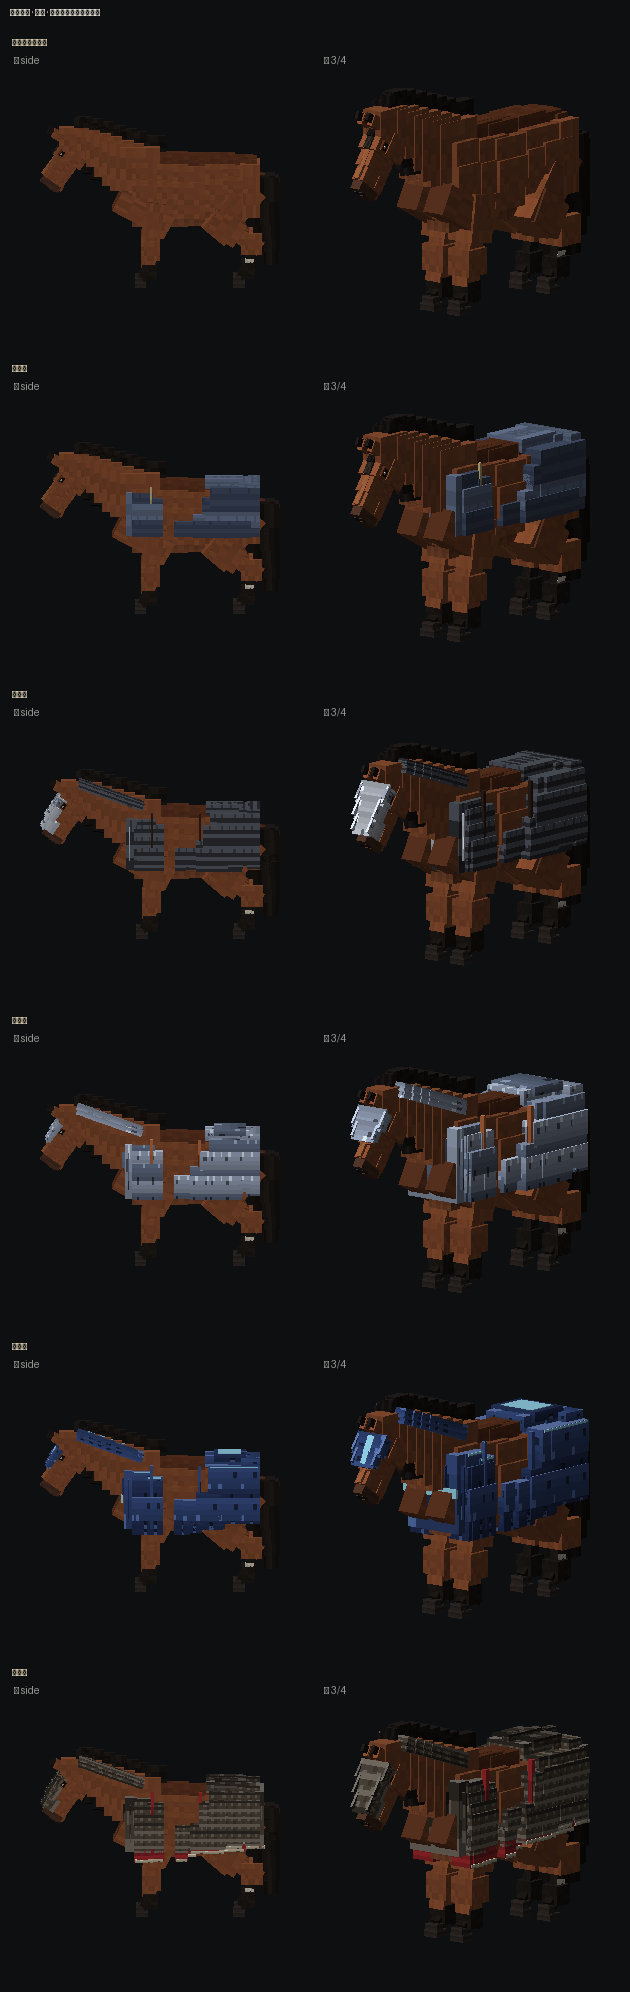
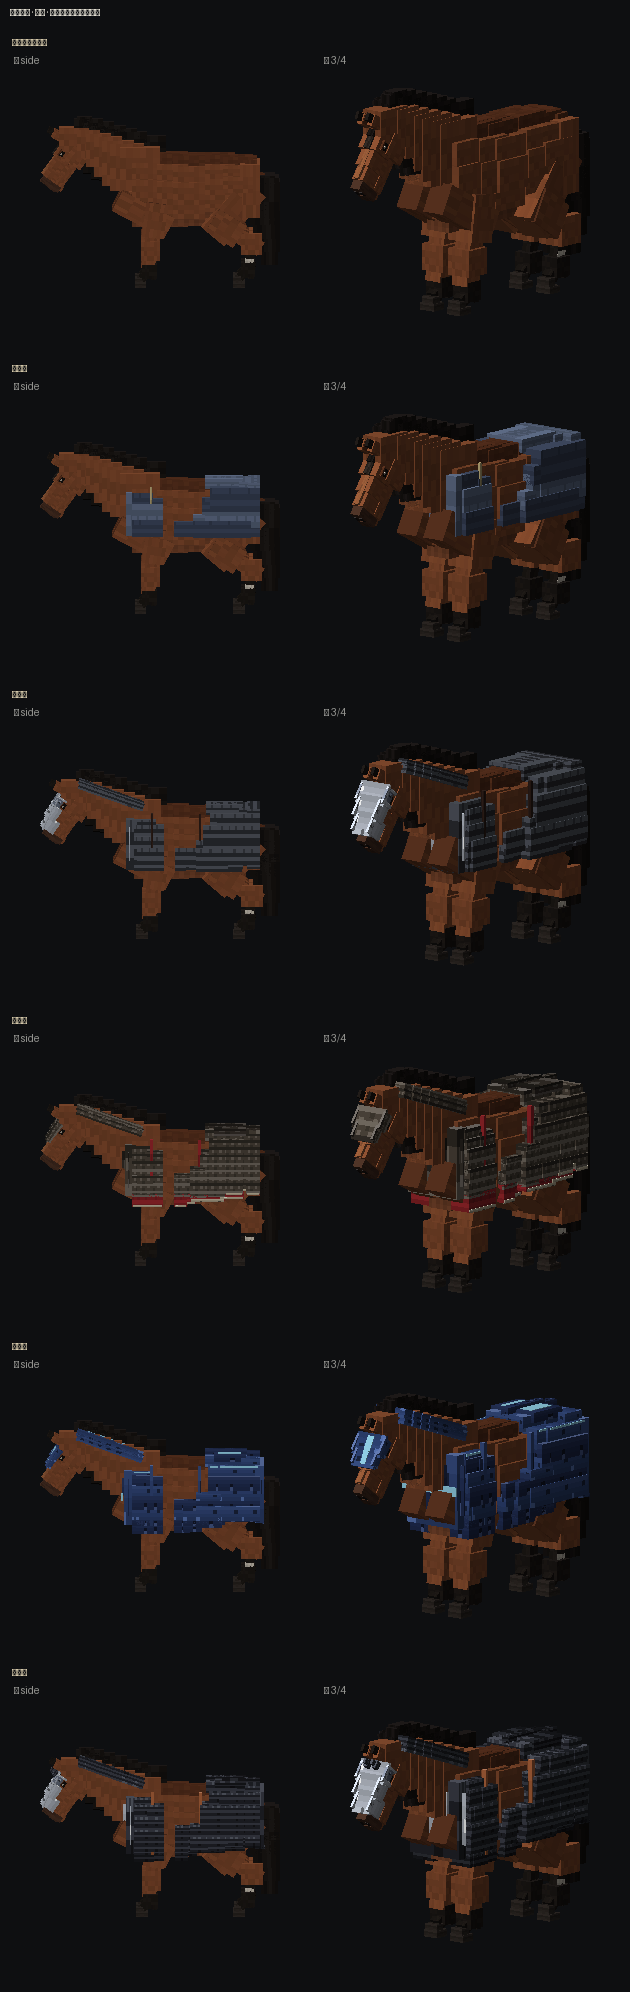
具装整套挪给轻铁甲；重铁甲改按铁浮屠重做（鳞甲 + 白钢面甲 + 面缨）
上一轮把这两件推到"下一轮"，理由是它们硬耦合。耦合是真的，但那不是不做的理由——
一并做完就是了。

## 轻铁甲：接手那套中原札甲具装

八排薄札片层层压叠、札行之间一道骨白铆钉、下摆吊一圈绛红绗缝衬里，鸡颈连半面帘、
垂缘、脊梁。原样搬下来，只把板厚按这一档收了一档（0.024 → 0.021）。

挪档不是降级。札甲本来就是这条路上最"够用"的一档——杂钢锻不出大片，短而密正是它的
样子；顶档往上走的是**换形制**（鳞），不是"同样的札片做得更厚"。

## 重铁甲：铁浮屠

参考图那一路的读法是三件事，一件不能少：

  · **鳞不是札**。片更碎更密（十排对八排，格更短），新做工 `scale`：行更密、每行更平
    ——靠"行多"读出密，不靠每行反差大。远处是一整只发乌的、带颗粒的黑。
  · **淬黑到底**。一身近黑 (44,46,54)，轻铁甲那圈绛红衬里在这儿撤掉——铁浮屠不留
    彩色。整副甲唯一跳出来的是脸上那块**白钢面甲**。
  · **额上一对缨**。整副甲一身黑，剪影上唯一认得出的东西就是它。

缨是新的一件具装（`BARD_KIT` 第八件），也正好解开耦合：轻铁甲拿走全套之后，重铁甲
必须还有能多配的东西，否则"每档必须多配一件"当场就红。

缨长在**最靠枕的那一节**（额顶），不是吻端：吻端那一节又窄又低，缨插上去像两根长在
鼻子上的天线。后缘仍卡在 `CHAM_Z_BACK` 之内，不去顶耳（顶了马会甩头）。

判据顺手分了一次件：「面帘不许飘在脸外」量的是"离脸多远"，而缨**本来就该离脸远**
——两者是相反的要求，只能按件分开（`face_plate` 排除 `_plume_`）。不分的话缨一装上
就误报 1.44 > 1.12。

## 灵铁甲跟着补两件

补上脊梁 + 后襟，下摆重排。它夹在轻铁甲与重铁甲之间，轻铁甲一拿到全套，它就同时
"比下面那档少件"又"比上面那档没少"——`check_escalation` 两头都红。这一串仍旧是同一件
事：五档共用一套件表和一条覆盖阶梯，动一档就得把阶梯重排一遍。

## 一条撞了两次的坎

重铁甲的板厚给到 0.026 时覆盖率**反而掉**（68.3 → 65.4）。原因不是没盖住，是板一厚，
甲那层壳就变宽，**镫的内缘落进壳里**——上缘天花板把整片压下去，一排排地掉。这道坎
上一轮调重铁甲时也撞过一次。板厚收回 0.024 就过。

结论写在这儿备查：**这匹马的甲厚有一个由镫定的天花板**，不是想加多厚就加多厚；
顶档要更沉，得靠排数与件数，不靠板厚。

## 结果

- 42 份全绿（含动画期贴地 / 贴合 / 跨骨链）
- 14/14 条判据在被针对性破坏时撞红，基线零告警
- 覆盖率 43.4 → 59.0 → 61.6 → 62.1 → 64.0%（常马），逐档递增
- 蹄铁 / 鞍 / 缰 27 份几何仍逐字未变

## 还欠两档

布甲（纹章罩袍）与灵铁甲（雕花白钢 + 分层鳞裙 + 垂饰）各自还要一轮——这一轮它们
只拿到了让阶梯成立所需的最小改动，不是按各自的参考重做。

Model: claude-opus-5[1m]

diff --git a/scripts/models/horse/gen_tack.py b/scripts/models/horse/gen_tack.py
@@ -79,6 +79,8 @@ FINISHES: dict[str, Finish] = {
     # 札甲：上暗下亮的叠边 + 两颗铆钉。跨度和金属同量级，但**只有三条结构线**，
     # 中间两行是干净的——甲面几个单位见方，撒噪就是一片棋盘
     "lamella": Finish(lit=1.30, occ=0.60, fres=0.42, grain="lamellar", amp=0.30),
+    # 鱼鳞：比札片更碎更密的小圆片。行更密、每行更平——靠"行多"读出密，不靠每行反差大
+    "scale": Finish(lit=1.28, occ=0.58, fres=0.46, grain="scale", amp=0.30),
     # 绗缝的衬里：棉行一道一道横着。布的跨度本来就小，靠结构不靠强度
     "quilt": Finish(lit=1.22, occ=0.66, fres=0.10, grain="quilt", amp=0.085),
     # 锁环：环挨环，亮的是环顶、暗的是环之间的洞。密排高频，远处并成一片发暗的冷灰
@@ -147,8 +149,9 @@ TACK_MATS: dict[str, Mat] = {
     "plate_dark": Mat((94, 106, 130), "metal"),
     # 重甲压到近黑（原 56,58,64）：黑得越透，板缘那圈冷亮的棱越抢眼——参考图里
     # 那身甲的读法就是"近黑的面 + 一圈亮边"，面自己亮起来反而把边吃掉了。
-    "iron_black": Mat((44, 46, 54), "metal"),
-    "iron_black_dark": Mat((28, 29, 35), "metal"),
+    # 淬黑：整板那一档撤掉之后闲下来，现在给铁浮屠的鳞甲用（做工改走鳞纹）
+    "iron_black": Mat((44, 46, 54), "scale"),
+    "iron_black_dark": Mat((30, 31, 37), "scale"),
     # 板缘磨亮的那道棱：现实里是卷边与刃口露出的白铁。它是整板那一档**唯一**的细节，
     # 所以要亮得离淬黑面足够远（黑面 44 / 棱 150，四倍多），远处才连成一条线。
     "plate_rim": Mat((150, 156, 166), "metal"),
@@ -1955,6 +1958,10 @@ class BardSpec:
     mat_plate_dark: str = ""
     # 当胸中央那一颗圆盾泡（"" = 不做）。诺曼那一路的当胸正中总有一颗，是它最好认的记号
     boss: str = ""
+    # 面帘顶上竖起的一对缨（"" = 不做）。铁浮屠那张图里马额上就这么一对——整副甲
+    # 一身近黑，**剪影上唯一能认出来的东西**就是它（同当年寄生要干的事，但这回长在
+    # 头上、不改躯干轮廓，也就不会读成"屁股上插了根烟囱"）
+    plume: str = ""
     # 逐排换明暗。首版靠它让"横排"读得出来（几何台阶太小，远处看不见）；札片纹理
     # 自己带上暗下亮的叠边之后就不必了，再叠一层反而读成斑马纹。
     banded: bool = True
@@ -1985,38 +1992,38 @@ BARDS: dict[str, BardSpec] = {
         th=0.017, hem=0.86, rows=5, cell=0.068, peytral=True, croup_plate=False,
         crinet=True, chamfron="full", skirt=0.0, spine=False,
     ),
-    # 三档：杂钢札片，胸前尻上各压一块整板。这是"挡得住砸"的分界线。
-    # 杂钢是回炉料，锻不出大片——**短而密**是这一档的样子，也是它便宜的原因。
-    # 鸡颈与半面帘是被下一档**逼**上来的：锁子甲照诺曼那套配了钢面甲，而具装件数逐档
-    # 只增不减（`check_escalation`）——下面一档有的，上面一档不能没有。
+    # 三档：**中原札甲具装**——八排薄札片层层压叠、札行之间一道骨白铆钉、下摆吊一圈
+    # 绛红绗缝衬里，具装配到脊梁。这一套原本是顶档的造型，整套挪下来给它。
+    # 挪档不是降级：札甲本来就是这条路上最"够用"的一档——杂钢锻不出大片，短而密正是
+    # 它的样子；顶档往上走的是**鳞**（更碎更密、也更贵），不是"同样的札片更厚"。
     "light": BardSpec(
-        key="light", label="轻铁甲", blurb="杂钢回炉锻的短札片密密编成，当胸与尻上各压一块整板，鸡颈连半面帘。轻，马跑得动。",
-        mat="plate", mat_dark="plate_dark", mat_trim="iron_crude",
-        th=0.021, hem=0.90, rows=5, cell=0.070, peytral=True, croup_plate=True,
-        crinet=True, chamfron="half", skirt=0.0, spine=False,
+        key="light", label="轻铁甲", blurb="八排薄札片层层压叠，札行之间一道骨白铆钉，下摆吊一圈绛红绗缝衬里，鸡颈连半面帘。轻，马跑得动。",
+        mat="bard_lame", mat_dark="bard_lame_dark", mat_trim="bard_pad",
+        edge="bard_rivet", pad="bard_pad", banded=False,
+        th=0.021, hem=0.86, rows=8, cell=0.092, peytral=True, croup_plate=True,
+        crinet=True, chamfron="half", skirt=0.075, spine=True,
     ),
     # 四档：灵铁。轻，所以同样的重量能锻**长片**、能一路护到颈和额——具装配到第三件。
     # 半面帘：只压额与鼻梁，眼露在外。灵铁贵，护到眼眶就够，再往下是重甲的事。
     "lingtie": BardSpec(
         key="lingtie", label="灵铁甲", blurb="灵铁长札片连鸡颈半面帘，甲片行间一道细灵纹。轻而不折真元。",
         mat="lingtie", mat_dark="lingtie_dark", mat_trim="lingtie",
-        th=0.024, hem=0.95, rows=4, cell=0.112, peytral=True, croup_plate=True,
-        crinet=True, chamfron="half", skirt=0.045, spine=False, glow=True,
+        th=0.024, hem=0.90, rows=6, cell=0.112, peytral=True, croup_plate=True,
+        crinet=True, chamfron="half", skirt=0.060, spine=True, rear=True, glow=True,
     ),
-    # 五档：具装。**不是整板**——参考图（也是中原马铠本来的样子）是一排一排的札片：
-    # 排数多、片薄、层层压叠，下摆吊一圈绛红的绗缝衬里，札片之间一道骨白的铆钉包边。
-    #
-    # 上一版把顶档做成"整板 + 板缘亮棱"，想的是"换形制才叫换了一档"。形制该换这句话
-    # 没错，换错了方向：整板在马身上是一片几个单位见方、什么细节都没有的黑，一道棱救
-    # 不回来——排数少（三排）反倒让每一排厚得像块牌子，越看越是"疙疙瘩瘩的黑方块"。
-    # 顶档与次档的分别改回它本来的地方：**排数、件数、衬里**——札片更薄更密（八排）、
-    # 具装配齐、外加一层布衬，而不是把甲片做大。
+    # 五档：**铁浮屠**。参考图那一路的读法是三件事：
+    #   · **鳞**不是札——片更碎更密（十排），远处是一整只发乌的、有颗粒的黑；
+    #   · **淬黑到底**——一身近黑，只有脸上那块白钢面甲跳出来；
+    #   · **额上一对缨**——整副甲一身黑，剪影上唯一认得出的东西就是它。
+    # 它比轻铁甲多的不是"更厚的札片"，是**换了形制**（鳞）、**淬黑**、**多两件**
+    # （后襟、面缨）。轻铁甲那身绛红衬里在这儿撤掉：铁浮屠不留彩色，白面甲才是它的脸。
     "heavy": BardSpec(
-        key="heavy", label="重铁甲", blurb="八排薄札片层层压叠，札片行间一道骨白铆钉，下摆吊一圈绛红绗缝衬里，面帘全罩只留眼窗。人马皆铠，马也最累。",
-        mat="bard_lame", mat_dark="bard_lame_dark", mat_trim="bard_pad",
-        edge="bard_rivet", pad="bard_pad", banded=False,
-        th=0.025, hem=0.92, rows=8, cell=0.092, peytral=True, croup_plate=True,
-        crinet=True, chamfron="full", skirt=0.100, spine=True, rear=True,
+        key="heavy", label="重铁甲", blurb="十排淬黑鱼鳞层层压叠，白钢面甲全罩只留眼窗，额上一对铁缨。人马皆铠，马也最累。",
+        mat="iron_black", mat_dark="iron_black_dark", mat_trim="iron_crude",
+        mat_plate="steel_polish", mat_plate_dark="steel_polish_dark",
+        plume="iron_black", banded=False,
+        th=0.024, hem=0.95, rows=10, cell=0.078, peytral=True, croup_plate=True,
+        crinet=True, chamfron="full", skirt=0.105, spine=True, rear=True,
     ),
 }
 
@@ -2030,6 +2037,7 @@ BARD_KIT: tuple[tuple[str, object], ...] = (
     ("垂缘", lambda s: s.skirt > 0),
     ("脊梁", lambda s: s.spine),
     ("后襟", lambda s: s.rear),
+    ("面缨", lambda s: bool(s.plume)),
 )
 
 
@@ -2766,6 +2774,24 @@ def part_bard_chamfron(t: Tack, fit: Fit, spec: BardSpec) -> None:
                      (ya + th * 0.55, za), (yb + th * 0.55, zb), th * 0.5,
                      mat="glow", glow=True, ext=(-gap, -gap))
 
+    if spec.plume:
+        # 面缨：额上竖起的一对。整副甲一身近黑，剪影上唯一认得出的东西就是它。
+        #
+        # 长在**最靠枕的那一节**（额顶），不是吻端：吻端那一节又窄又低，缨插上去像两根
+        # 长在鼻子上的天线；额顶正是参考图里那对缨的位置，也是耳的前面一点点——所以
+        # 后缘卡在 `CHAM_Z_BACK` 之内，不去顶耳（顶了马会甩头，同项带的道理）。
+        za, zb = segs[-1]
+        ya, yb = band(za, zb)
+        top = max(ya, yb) + th / 2
+        zc = _lerpf(max(za, CHAM_Z_BACK - 0.10), min(zb, CHAM_Z_BACK), 0.5)
+        for sgn, side in ((-1.0, "l"), (1.0, "r")):
+            x0 = sgn * th * 1.2
+            # 两截收出个尖：一个体素 6.25 cm，再多截也读不出更尖
+            for i, (w, y0, y1) in enumerate(((1.5, 0.0, 0.085), (0.9, 0.075, 0.150))):
+                Hd.put(t, f"bard_cham_plume_{i + 1}_{side}",
+                       (x0, top + y0, zc - th * w), (x0 + sgn * th * w * 1.1, top + y1, zc + th * w),
+                       mat=spec.plume, chain=(f"bard_plume_{side}", i))
+
 
 def build_bard(t: Tack, fit: Fit, spec: BardSpec) -> None:
     part_bard_body(t, fit, spec)
@@ -2927,6 +2953,9 @@ def check_bard(t: Tack, fit: Fit, spec: BardSpec) -> list[str]:
     # 跨装备判据只查"别的马具"，同一副甲里的两件互相穿插它一条都不响：面帘挂 skull、
     # 鸡颈挂 neck_7，两根骨紧挨着，各按各的基准往外鼓，撞上是常态。
     cham = [e for e in els if e["name"].startswith("bard_cham")]
+    # 缨**本来就该离脸远**（它是竖在额上的两根，不是贴脸的板）。下面"面帘不许飘"那条
+    # 量的是"离脸多远"，把缨算进去必然误报——两者是相反的要求，只能按件分开。
+    face_plate = [e for e in cham if "_plume_" not in e["name"]]
     crin = [e for e in els if e["name"].startswith("bard_crinet")]
     if cham and crin:
         v = max(_pen(a, b) for a in cham for b in crin)
@@ -2938,8 +2967,8 @@ def check_bard(t: Tack, fit: Fit, spec: BardSpec) -> list[str]:
     # 那套实交口径查不到它——查得到的只有"离脸多远"。飘起来的面帘在正视图里和戴好的
     # 长得几乎一样（正面看它就该盖住脸），只有侧视才看得出来悬空。
     face = [e for e in fit.pelt_els if fit.head.SHELL.fullmatch(e["name"])]
-    if cham and face:
-        d, who = max((min(-_pen(c, f) for f in face), c["name"]) for c in cham)
+    if face_plate and face:
+        d, who = max((min(-_pen(c, f) for f in face), c["name"]) for c in face_plate)
         lim = P.u(CHAM_PLATE) * CHAM_FLOAT
         if d > lim:
             bad.append(f"面帘飘在脸外 {d:.2f} 单位（{who}，上限 {lim:.2f}）——没扣在脸上")
@@ -3368,6 +3397,7 @@ MIN_EDGE = 1.75  # 受光带 / 背光带的最小亮度**比值**（叠边那条
 FINISH_SPAN: dict[str, tuple[float, float]] = {
     "pit": (2.3, 6.0),  # 金属
     "lamellar": (2.3, 6.0),  # 札片：跨度与金属同量级，但只由三条结构线担
+    "scale": (2.0, 5.0),  # 鱼鳞：行更密、每行更平，跨度比札片略小
     "ring": (1.7, 3.4),  # 锁环
     "weave": (1.15, 1.55),  # 布
     "quilt": (1.15, 1.60),  # 绗缝的衬里

diff --git a/scripts/models/horse/material.py b/scripts/models/horse/material.py
@@ -120,6 +120,17 @@ def grain(kind: str, amp: float, seed: int) -> list[list[float]]:
         for x in (1, SIDE_W - 2):
             g[1][x] += amp * 1.05  # 铆钉
         g[2][(SIDE_W - 1) // 2] -= amp * 0.55  # 编绳穿过的那个孔
+    elif kind == "scale":
+        # 鱼鳞甲：比札片更碎更密的小圆片，一片压一片。和 `lamellar` 是同一个思路，
+        # 只是**行更密、每行更平**——札片一排能有两三个单位高，鳞片只有半个，所以
+        # 逐行的明暗要细、幅度要小，靠"行多"而不是"每行反差大"读出密。
+        # 仍旧不撒噪：两颗鳞尖的高光是全部的点缀（撒匀了就是一片棋盘，见上）。
+        for y in range(SIDE_H):
+            for x in range(SIDE_W):
+                g[y][x] = 1.0 + amp * (0.62 if y % 2 == 0 else -0.62)
+        for x in (1, SIDE_W - 3):
+            g[0][x] += amp * 1.15  # 鳞尖迎光的一点
+        g[SIDE_H - 1][SIDE_W // 2] -= amp * 1.05  # 一片锈死的
     elif kind == "quilt":
         # 绗缝的衬里：一道一道横着的棉行，行与行之间是缝线压出的沟。布的跨度本来就小，
         # 这里靠**结构**而不是靠强度被认出来（同 `lamellar` 的道理，只是幅度小一档）。
